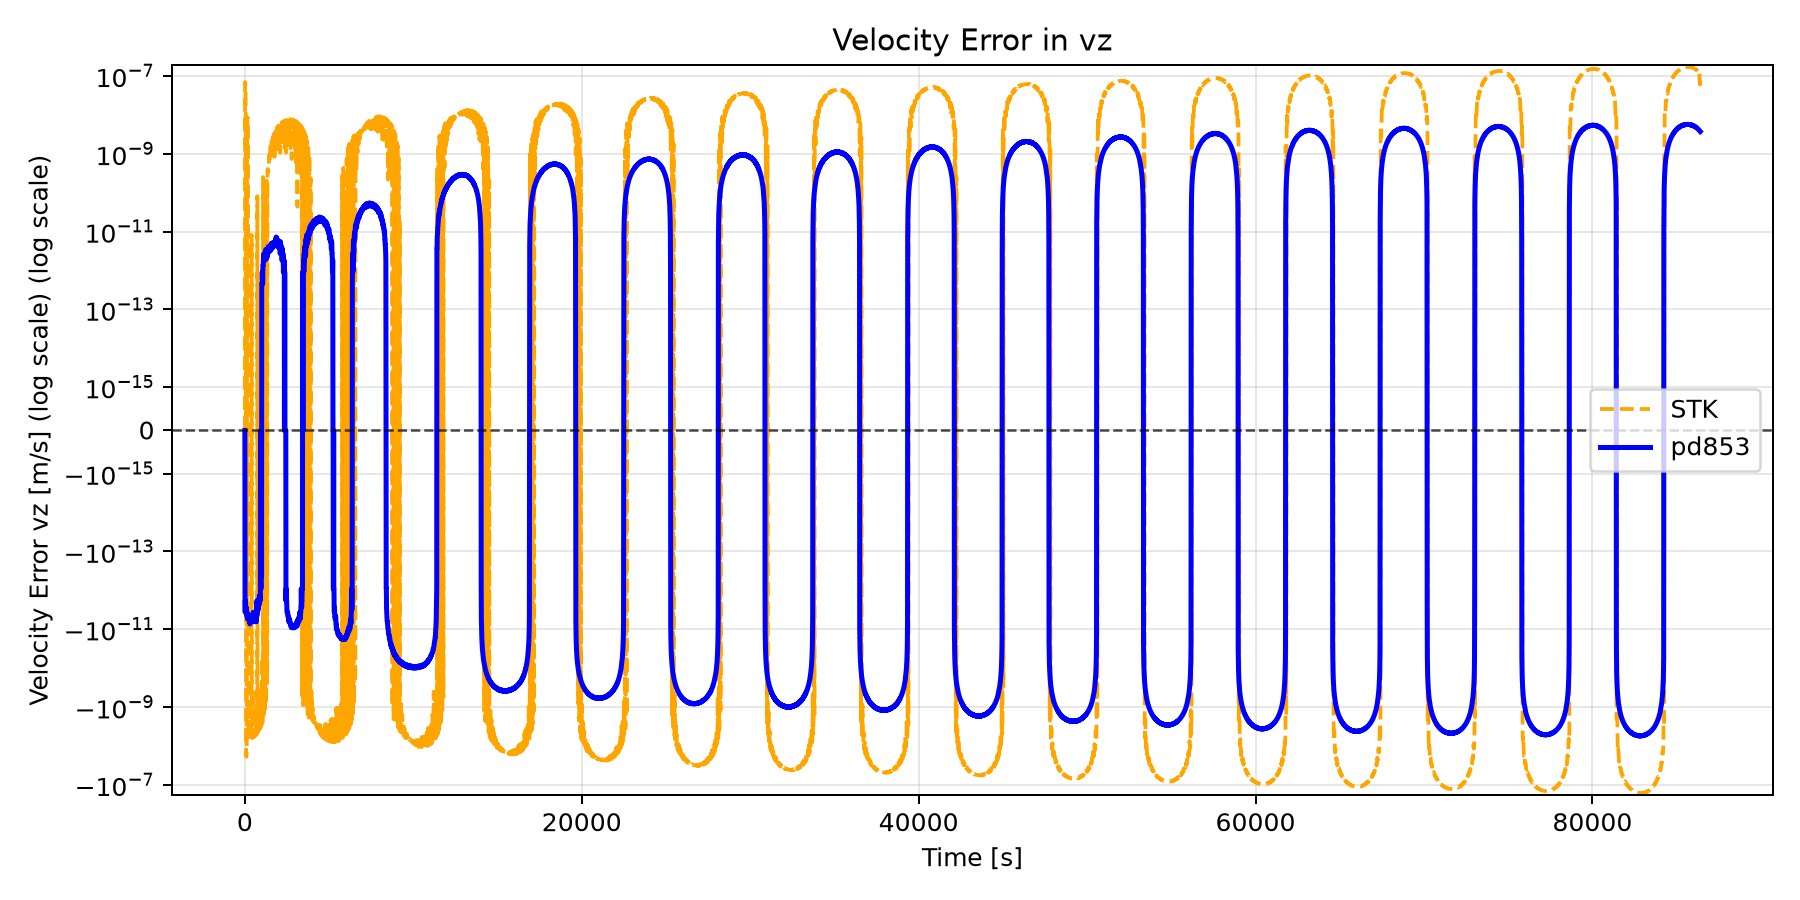
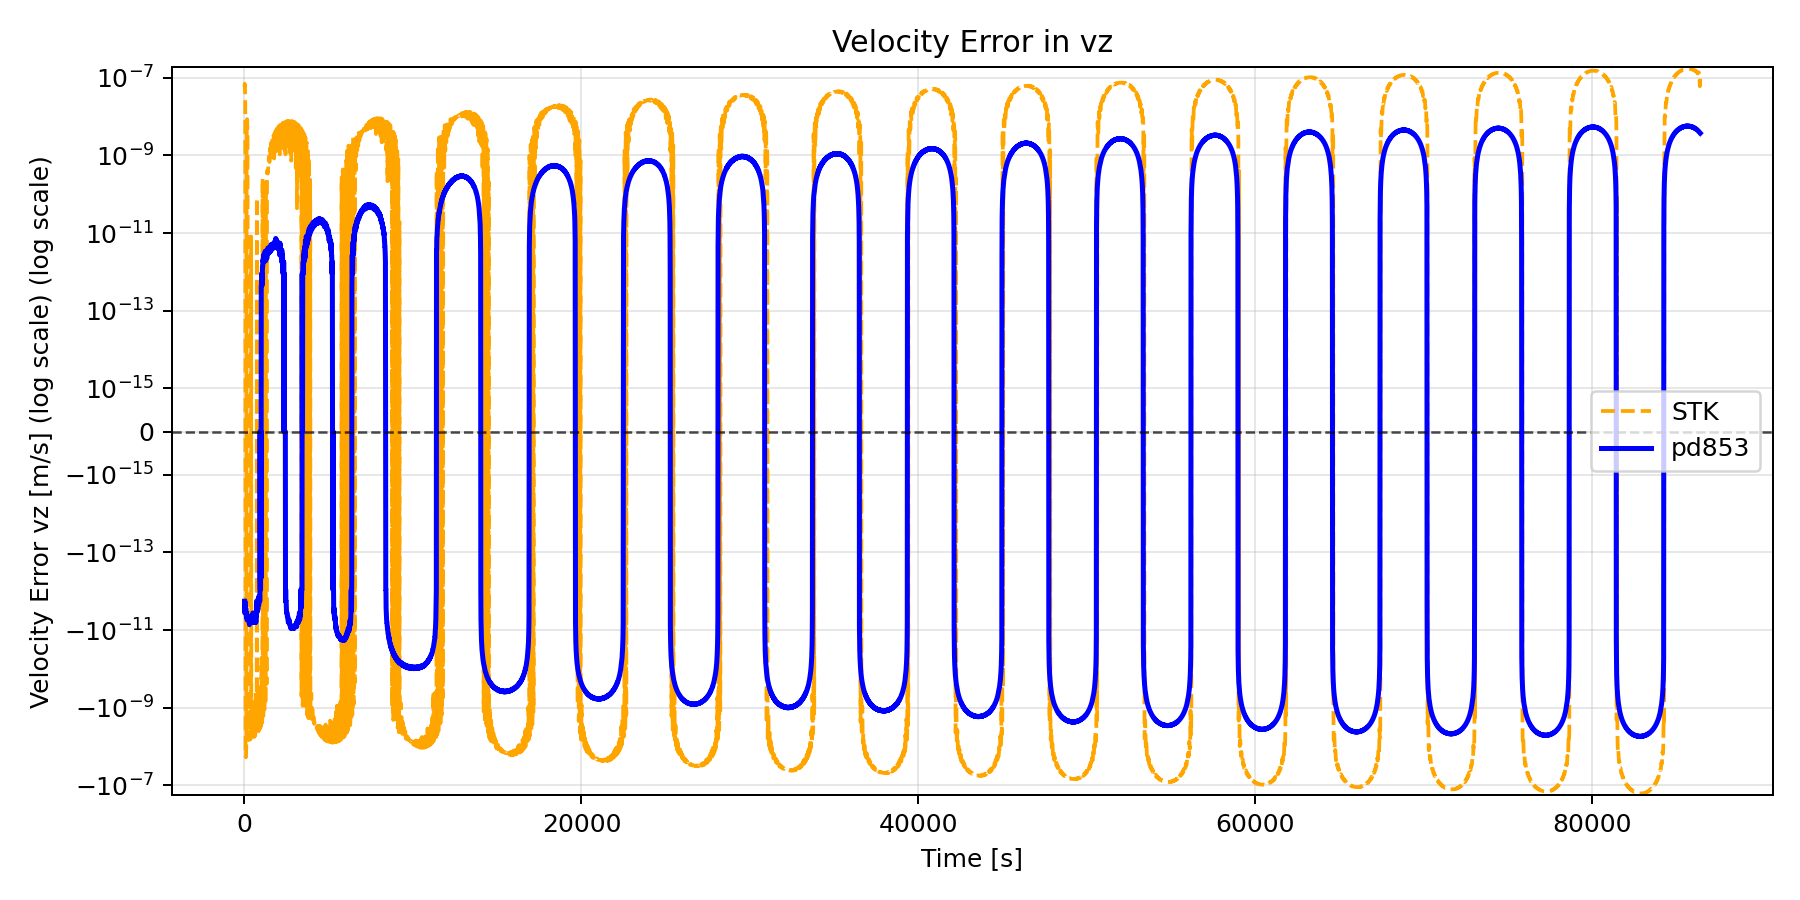
fix: update plots to remove first data point for accurate comparisons

diff --git a/validation/compare_analytical.py b/validation/compare_analytical.py
@@ -440,12 +440,20 @@ def create_comparison_plots(output_dir, orbit_params, integrator="pd853", stk_cs
         """
         if plt is None:
             return
+        # Pop first element
+        y_values = y_values[1:]
+        if x_values is not None:
+            x_values = x_values[1:]
+        if stky is not None:
+            stky = stky[1:]
+        # t_values is defined in outer scope; we need to use it and also pop first element
+        t_values_popped = t_values[1:]
         fig, ax = plt.subplots(figsize=(10, 5))
         # Plot STK data first (if available) to ensure it is underneath
         if x_values is not None and stky is not None:
-            ax.plot(x_values, stky, label=stklab, linestyle="--",color='orange', linewidth=1.5)
+            ax.plot(x_values, stky, label=stklab, linestyle="--", color='orange', linewidth=1.5)
         # Then plot the integrator data on top
-        ax.plot(t_values, y_values, label=f"{integrator}", color='blue', linewidth=2.0)
+        ax.plot(t_values_popped, y_values, label=f"{integrator}", color='blue', linewidth=2.0)
         ax.axhline(0.0, color="black", linestyle="--", linewidth=1.0, alpha=0.7)
         ax.set_title(title)
         ax.set_xlabel("Time [s]")

diff --git a/validation/comparative_plots.py b/validation/comparative_plots.py
@@ -127,6 +127,9 @@ def _plot_overlay(
     """
     if plt is None:
         return
+    # Pop first element
+    t_values = t_values[1:]
+    series = {k: v[1:] for k, v in series.items()}
     fig, ax = plt.subplots(figsize=(10, 5))
     for name, y_values in series.items():
         style = _INTEGRATOR_STYLES.get(name, {})
@@ -164,6 +167,9 @@ def _plot_component_overlay(
     """
     if plt is None:
         return
+    # Pop first element
+    t_values = t_values[1:]
+    components = [(label, pd_vals[1:], sym_vals[1:]) for label, pd_vals, sym_vals in components]
     fig, axes = plt.subplots(3, 1, figsize=(10, 12), sharex=True)
     for ax, (label, pd_vals, sym_vals) in zip(axes, components):
         ax.plot(
